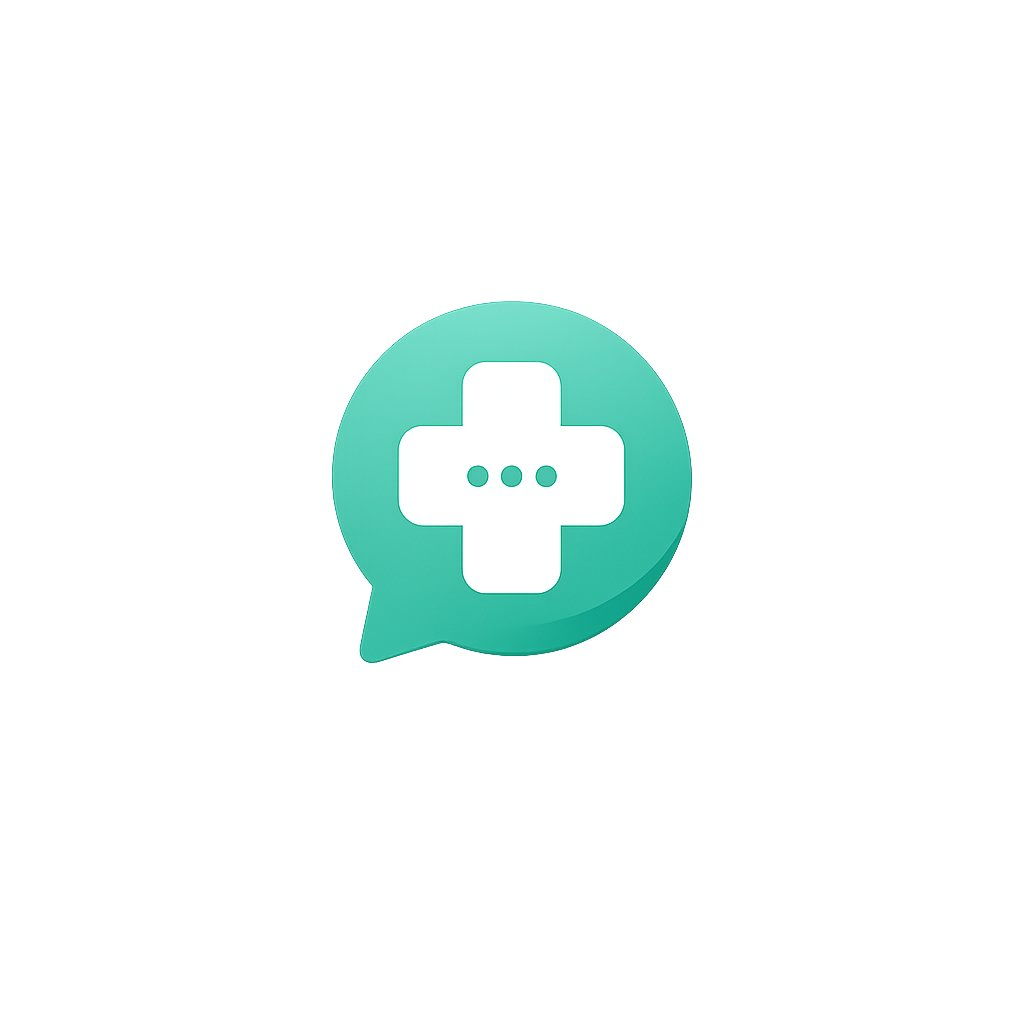
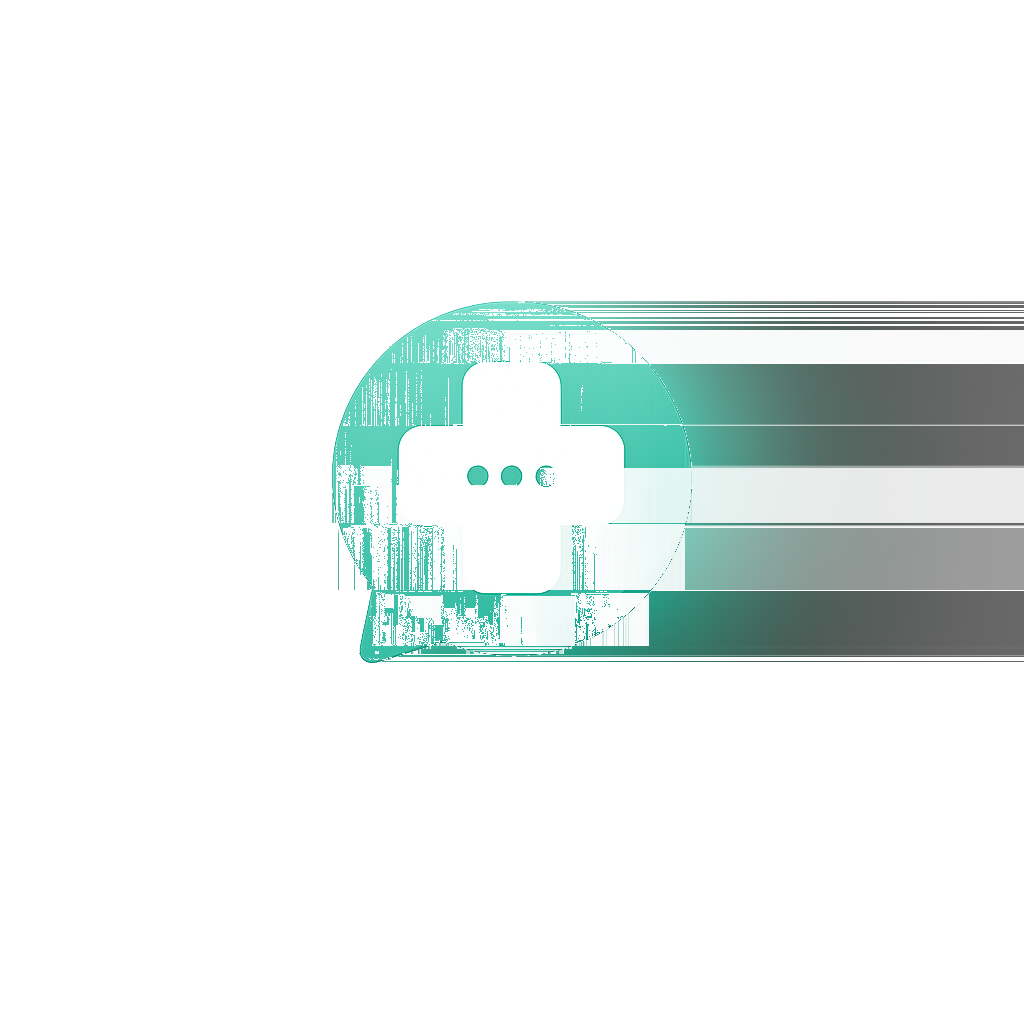
docs: 更新 README（新增截图展示区 + 优化图标透明）
- 新增 screenshots 目录，包含登录/注册/聊天/通讯录/个人资料/功能演示截图
- README 新增「截图展示」章节，表格布局展示界面
- 优化 app_icon_transparent.png，将白底像素转为透明通道
- 更新项目结构说明，补充 resources/screenshots/ 目录

Changed region(s): [[0.3125, 0.2812, 1.0, 0.6562], [0.5312, 0.4375, 0.5625, 0.4688]]

diff --git a/README.md b/README.md
@@ -80,6 +80,37 @@ MedChat 是一款面向医疗场景的局域网即时通讯系统，采用 **C/S
 
 ---
 
+## 📸 截图展示
+
+<table>
+<tr>
+<td align="center"><strong>🔐 登录界面</strong></td>
+<td align="center"><strong>📝 注册界面</strong></td>
+</tr>
+<tr>
+<td><img src="resources/screenshots/login.png" width="400"></td>
+<td><img src="resources/screenshots/register.png" width="400"></td>
+</tr>
+<tr>
+<td align="center"><strong>💬 聊天界面</strong></td>
+<td align="center"><strong>📋 通讯录</strong></td>
+</tr>
+<tr>
+<td><img src="resources/screenshots/chat.png" width="400"></td>
+<td><img src="resources/screenshots/contacts.png" width="400"></td>
+</tr>
+<tr>
+<td align="center"><strong>👤 个人资料</strong></td>
+<td align="center"><strong>✨ 功能演示</strong></td>
+</tr>
+<tr>
+<td><img src="resources/screenshots/profile.png" width="400"></td>
+<td><img src="resources/screenshots/demo1.png" width="400"></td>
+</tr>
+</table>
+
+---
+
 ## 🚀 快速开始
 
 ### 运行（已构建版本）